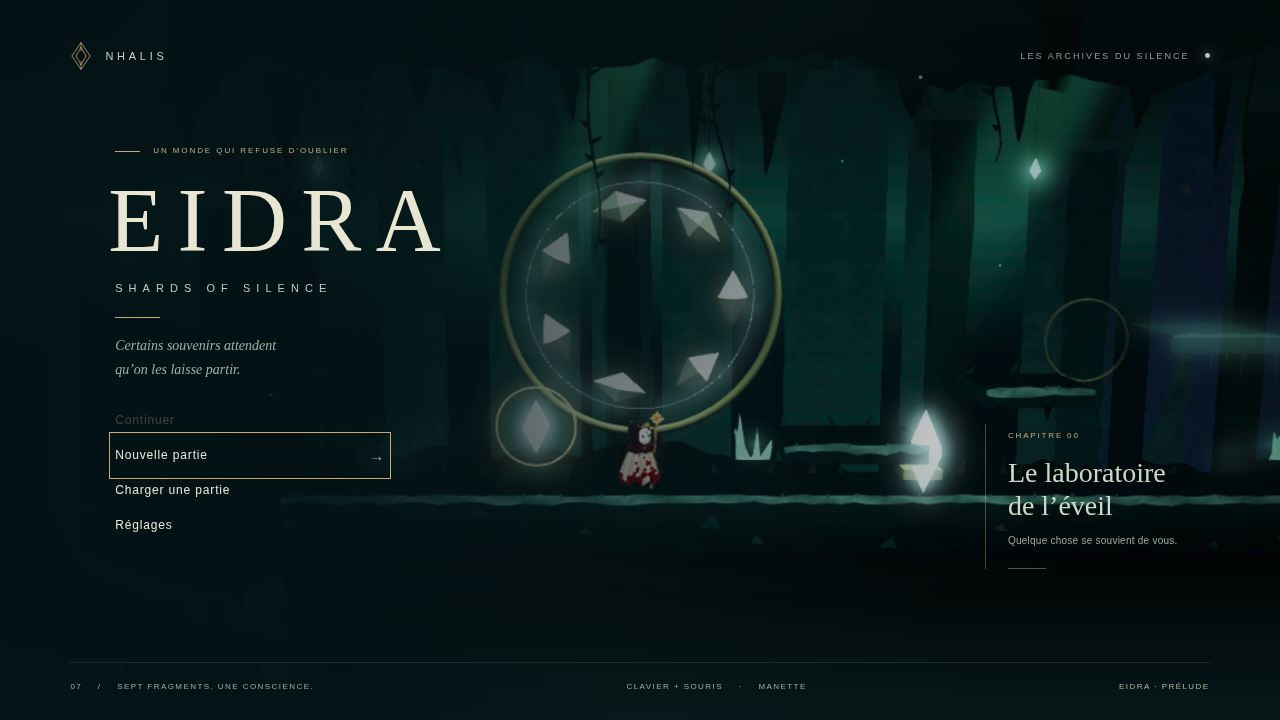
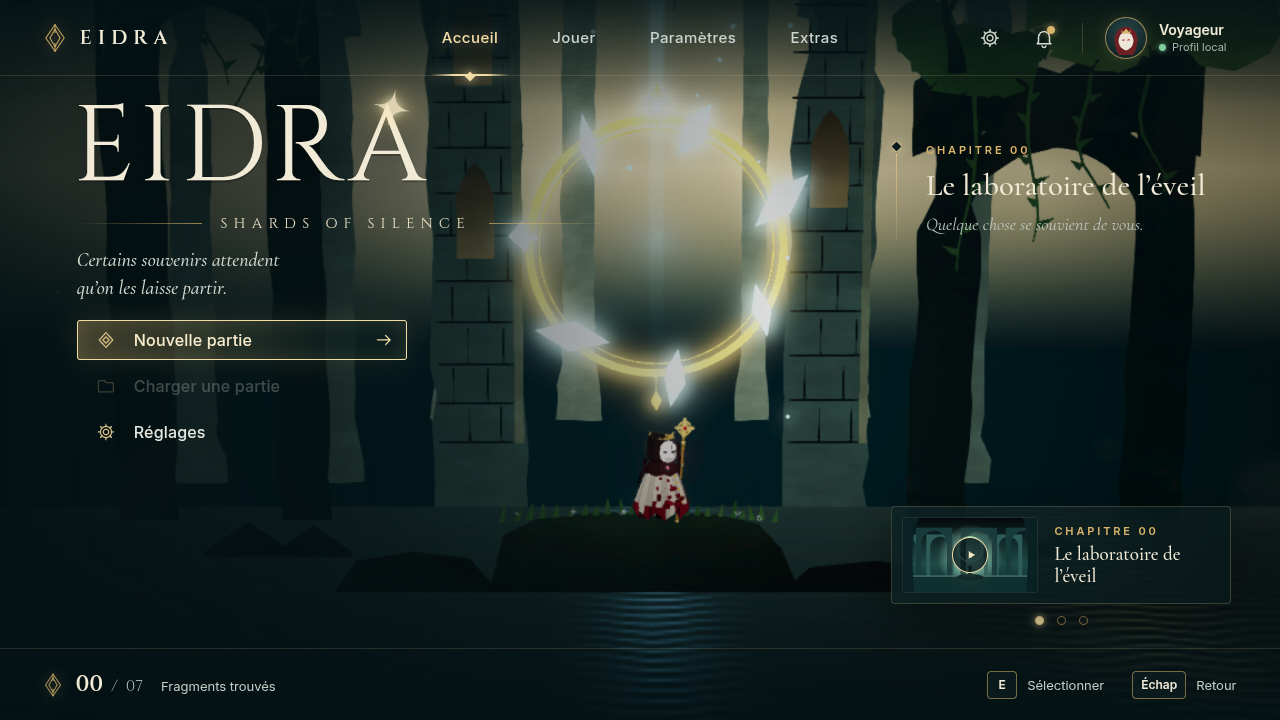
Document the title screen and measure it
Decision D034 (shell, vista, progress, preview, soundtrack, keyboard,
local profile, typefaces), art direction, design, architecture, release
notes, testing, the OFL typefaces in the third-party notes, and the A/B
measurements: the title costs about 29 meshes and fewer draw calls,
play is unchanged and the vista is released when the journey starts.

Claude-Session: https://claude.ai/code/session_01Q4HpwgZSs3YSowU4xBjobR

diff --git a/docs/DECISIONS.md b/docs/DECISIONS.md
@@ -154,3 +154,17 @@ Le prototype n'avait qu'une boucle d'exploration, une boucle de boss et onze bru
 - **Formats** : OGG Vorbis d'abord, **MP3** de secours au lieu du WAV (la musique en WAV aurait pesé plusieurs centaines de Mo). La musique est à 32 kHz stéréo, les bruitages à 44,1 kHz mono. `validate-assets` vérifie les en-têtes et la présence de chaque secours. L'encodeur OGG tire un numéro de flux aléatoire : la régénération donne le même son, pas les mêmes octets.
 - **Exécution** : les bruitages sont de petits tampons chargés au démarrage, huit à la fois ; la musique et les ambiances sont **diffusées en streaming** à la demande et libérées après 20 s de silence (une région lointaine n'occupe pas la mémoire) ; quatre bus (musique, ambiance, effets, interface) suivent les réglages existants, sans nouveau champ de sauvegarde. Les choix sont de la logique pure et testée : `MusicDirector` (thème de la région avec hystérésis de 2 m aux frontières et fondu de 2,5 s, thème du boss en 1,2 s, six secondes de silence après une victoire puis retour lent, fondu à la mort, niveau réduit en pause, creux sous les gros impacts) ; `SoundBank` (variante jamais répétée deux fois de suite, délai minimal entre deux occurrences, hauteur aléatoire) ; `CombatCues` (sons des ennemis, des boss, de leurs capacités et des colonnes de feu, déduits des changements d'état de la simulation). Le décor sonore des secteurs (musique, ambiance, sol sous les pas) et la voix de chaque pattern de boss sont des données (`game-data/audio/`, validées par Zod) ; les tests vérifient que chaque secteur, chaque boss et chaque pattern est servi et que chaque fichier existe.
 - **Le titre a de la musique** : l'audio démarre au premier geste (clic ou touche) dans les menus, comme l'exigent les navigateurs. Les sous-titres de bruitages viennent des données (`caption`).
+
+## D034 — Écran titre : une coque à sections, une illustration en 3D, le voyage résumé
+
+L'écran titre suit la maquette du propriétaire : barre du haut (emblème et « EIDRA », sections Accueil / Jouer / Paramètres / Extras soulignées d'un trait et d'un losange lumineux, réglages, nouveautés, puce de profil), grand titre à l'étoile sur le A, « SHARDS OF SILENCE » entre deux filets, devise en italique, menu à icônes dont l'action principale est encadrée d'or, carte du chapitre en cours à droite, carte d'aperçus en bas à droite, pied de page avec les fragments et les touches.
+
+- **Une coque persistante** (`MenuUI.shell`) : la barre et le pied de page restent, seule la page change. Jouer (emplacements, onglets Charger / Nouvelle partie), Paramètres (le panneau de réglages existant, posé dans la coque) et Extras (Souvenirs, Bande originale, Crédits) sont des pages de la coque, plus des fenêtres modales ; en partie, la pause garde ses panneaux. Les identifiants des boutons (`#continue`, `#new`, `#load`, `#settings`, `#slot-N`, `#back`) ne changent pas : parcours E2E et manettes s'y fient. « Continuer » n'apparaît qu'avec une sauvegarde (sinon « Nouvelle partie » devient l'action principale) et « Charger » est désactivé sans sauvegarde.
+- **Le voyage résumé** : `titleProgress` (`src/ui/TitleProgress.ts`, pure et testée) lit les trois emplacements — la partie que « Continuer » reprend (la plus récente), ses fragments sur les sept de l'histoire, son chapitre, les chapitres atteints par une partie, les souvenirs et les thèmes déjà rencontrés dans n'importe quelle partie. La maquette annonçait « 07 / 12 » : le pied de page affiche les fragments réels, sur sept. Les chapitres sont dérivés des actes de la route (`route.acts`) ; `game-data/ui/title.ts` n'y ajoute que la devise, le secteur dont les couleurs peignent la vignette et le thème de l'aperçu. Les mots, nouveautés et crédits sont des données.
+- **L'illustration** (`TitleStage`) est une scène 3D construite avec les pièces du jeu : Eidra sur un rocher fleuri sous un anneau d'or où tournent des éclats de Lumérite, un rayon qui la traverse, des ruines envahies de feuillage, une porte ouverte sur l'aube, une eau sombre où l'anneau et l'aube se reflètent. Elle se tient à x = −90, hors de la route (aucun secteur ne s'y charge), n'existe que dans les menus et est libérée quand le voyage commence ; la caméra la cadre d'une coupe (`CameraRig.hold`), son ambiance (`titleMood`) remplace celle du secteur. L'eau est une texture émissive sur une couleur émissive noire : Babylon ajoute la texture émissive à la couleur émissive (une couleur blanche rendait l'eau blanche), et une diffuse non éclairée reste noire. Les reflets sont peints dans sa texture. TODO_ART : en attente d'une illustration peinte.
+- **Aperçu d'un chapitre** : le bouton lecture de la carte d'aperçus fait survoler le chapitre par la caméra (2,6 m/s sur au plus 64 m), le monde chargé comme en jeu, la simulation arrêtée, au son du thème du chapitre ; l'interface s'efface derrière des bandes de cinéma, Échap ou Retour ramène au titre et le monde revient à x = 10. Les autres cartes mènent à la bande originale et aux nouveautés ; elles tournent seules toutes les 7 s, sauf mouvements réduits ou survol.
+- **Bande originale** : `MusicDirector.listen` joue un thème déjà entendu à la place de celui du titre, seulement dans les menus (le choix s'oublie dès que le jeu reprend).
+- **Clavier** : sur l'écran titre seulement, les flèches déplacent le focus (navigation spatiale des manettes), la touche d'interaction (E) sélectionne, Échap revient ou ferme une fenêtre ; Tab et Entrée restent valables. En pause, Échap garde son rôle de reprise. Le pied de page montre ces deux touches, ou les boutons de la manette en main. À la manette, les gâchettes hautes changent d'onglet, et de section sur l'accueil.
+- **Profil local** : `profileName` (Zod, « Voyageur » par défaut, une valeur vide ou trop longue revient au défaut) s'ajoute aux réglages ; les sauvegardes existantes restent valides. La puce indique « Profil local » et non « En ligne » : le jeu n'a pas de service en ligne. La fenêtre de profil résume le voyage de toutes les parties.
+- **Nouveautés** : la cloche porte un point tant que la dernière nouveauté n'a pas été lue ; ce simple confort par navigateur vit dans `localStorage` (un stockage bloqué laisse le point et le signale dans la console).
+- **Polices** : Cinzel (titres), Cormorant Garamond (titres de cartes, devises) et Inter (texte), sous SIL Open Font License, sous-ensembles latins woff2 (environ 200 ko) placés à côté de la feuille de style pour que Vite les empaquette avec le reste (`base: './'`). Elles ne servent qu'à l'écran titre ; l'interface de jeu garde Georgia et Arial.

diff --git a/docs/ART_DIRECTION.md b/docs/ART_DIRECTION.md
@@ -35,6 +35,10 @@ Colonnes de feu : un halo de braise au sol en permanence, une flamme basse qui v
 
 Personnages : marionnettes stylisées à contours encrés et ombrage cartoon à trois tons, hors brouillard pour rester lisibles. Eidra : capuche sombre à couronne d'épines dorées, masque blanc fêlé aux yeux pourpres et cœur pourpre, deux mèches noires qui encadrent le masque et de longues mèches qui flottent derrière elle, robe ivoire plissée à ourlet déchiqueté, éclaboussée de taches peintes (plus denses et imbibées vers l'ourlet), col pourpre, boutons dorés, lambeaux de cape pourpre qui ondulent au vent de la course, bottes sombres, bâton doré à tête d'étoile cerclée et gemme rouge. Jusqu'à neuf cartes rouges à cadre doré tournent autour d'elle : une par tranche de résonance ; elles se resserrent en bouclier pendant la parade, se dorent quand une riposte est prête et sont aspirées pendant le Recueillement. Ses coups de bâton laissent des arcs pourpres (or pour la riposte), l'estoc une traînée droite ; son dash laisse des silhouettes et des étincelles pourpres ; le pogo projette une gerbe rouge. Veilleur : très haute capuche, œil unique ambré, hallebarde. Porteur de cendres : trapu, trois yeux, urne sur le dos. Porteur du dernier ordre : livrée bleu nuit bordée d'or, écusson doré à cinq pointes sur la capuche, cape sombre, clous dorés, bannière bleue au losange d'or portée dans le dos — elle quitte son dos quand il la plante dans le sol, où elle ondule et sonne d'un anneau doré à chaque onde ; il avance à pas lourds qui soulèvent la poussière. Souvenir errant : masque flottant aux voiles translucides. Mira : robe et capuche de mémoire translucides, yeux clos, auréole brisée. Gardien Sans Visage : masque vierge traversé d'une faille lumineuse, auréoles brisées, épaulières, lambeaux gris, sept éclats d'ivoire en orbite ; il lévite. Son Commandement ouvre au-dessus d'Eidra un œil ambré à pupille fendue, qui vire au pourpre et grandit quand il punit un mouvement. Rampant de cendre : bête basse à cape déchirée et œil de braise unique. Porte-braise : urne ardente sur le dos. Sentinelle de cendre : armure calcinée, cornes d'os pâle, trois yeux, robe tachée de suie, cape de braise, braises en orbite, lame plus longue que son porteur ; elle avance par bonds, s'accroupit avant de s'élancer en arc très haut et retombe dans la poussière ; ses geysers sont des colonnes de flamme qui jaillissent l'une après l'autre sur des marques au sol. Ilyra : grande silhouette pâle voilée, yeux clos, couronne de fleurs roses, longues mèches rose pâle, pétales en orbite, voiles ; elle glisse au-dessus du sol. Ses reflets sont identiques à elle et prennent sa pose ; ils se détachent dans un anneau de lumière, scintillent brièvement de temps à autre (le seul indice) et se brisent en éclats de mémoire. Les yeux s'élargissent et le contour vire à l'ambre pendant un télégraphe. Les coups se lisent par un croissant (pourpre pour Eidra, or pour la riposte), un flash blanc, un hit-stop et des éclats. Les ennemis vaincus se dissolvent en blanc au lieu de disparaître.
 
+## Écran titre
+
+L'entrée du jeu est une illustration vivante plutôt qu'un fond flou (D034) : Eidra de dos sur un rocher fleuri, sous un grand anneau d'or où tournent des éclats de Lumérite bleu glacier, un rayon de lumière froide qui tombe sur elle, des ruines envahies de feuillage et de lianes, une porte ouverte sur une aube chaude, une eau sombre où l'anneau et l'aube tremblent. Palette : sarcelle profonde et vert mousse en haut et sur les côtés, or chaud pour la lumière et les ornements, ivoire pour le texte. L'interface est un cadre fin (filets dorés à faible opacité, losanges, souligné lumineux) qui laisse le centre libre ; le titre est une capitale lapidaire (Cinzel) espacée, l'étoile posée sur la pointe du A, les titres de cartes et les devises une Garamond italique (Cormorant), le texte une linéale lisible (Inter). Les vignettes d'aperçu sont peintes dans les couleurs du secteur qu'elles montrent. TODO_ART : l'illustration est procédurale ; une peinture de production la remplacera.
+
 ## Animation
 
 Poses exagérées et lisibles, dans l'esprit des action-plateformes dessinés à la main, sans reprendre de personnage existant : anticipation marquée (recul, accroupissement, arme au-dessus de la tête, frisson final), fente, affaissement. Les portes d'arène jaillissent du sol dans un nuage de poussière et s'y enfoncent dans un scintillement doré. La mort brise le masque en éclats ivoire et cristal ; la reconstitution se fait par une lueur blanche qui se résorbe. Les lames de lumière (pouvoir retrouvé, gardien vaincu, ancrage) sont un seul maillage étoilé, doré ou cristal, qui tourne et s'efface en un peu plus d'une seconde.

diff --git a/docs/TESTING.md b/docs/TESTING.md
@@ -101,6 +101,12 @@ Correctifs : appui correct dès le premier pas après une téléportation, prior
 
 23 parcours E2E. Ajout : **« the score follows the journey, and every gesture is heard »** — le premier geste réveille l'audio et le thème du titre joue au menu ; l'interface confirme ; thème et ambiance des voûtes ; pas sur la pierre, saut, atterrissage et coup de bâton entendus ; dans l'arène du Porteur la porte retombe, il rugit et son thème prend le relais ; à sa chute, le son de la victoire et son motif, puis le silence.
 
+## Onzième itération : écran titre
+
+194 tests unitaires / intégration dans 23 fichiers. Nouveau `title.test.ts` : un chapitre par acte de la route, numérotés, bout à bout, avec des couleurs et un thème qui existent, et le chapitre d'une abscisse ; chaque thème a un nom et une origine (titre, région ou combat) ; nouveautés aux identifiants distincts, polices créditées ; vignettes aux couleurs de leur secteur avec des identifiants de dégradé propres ; **progression du titre** : avant tout voyage (premier chapitre, thème du titre seul, aucun fragment, sur sept), puis avec deux parties (la plus récente est reprise, ses seuls fragments de l'histoire comptés, chapitre de sa position, chapitres atteints, souvenirs et thèmes réunis de toutes les parties dans l'ordre de la partition), chapitre atteint par un secteur découvert ; nom de profil par défaut, rogné, refusé s'il est vide ou trop long, réglages et sauvegardes antérieurs valides ; thème choisi joué dans les menus puis oublié dès que le jeu reprend.
+
+24 parcours E2E. Ajout : **« the title screen: sections, the journey so far, its score, a preview and a profile »** — sans sauvegarde, pas de « Continuer », « Charger » désactivé, fragments 00/07, chapitre 00 ; au clavier, flèches (la touche désactivée est sautée), E ouvre Jouer avec le focus sur le premier emplacement, Échap revient ; une partie menée jusqu'à l'Acte II (transmission passée), sauvegardée, puis retour au titre : « Continuer » a le focus et indique l'ancrage, la carte du chapitre montre les Failles de cendre ; Extras : sept souvenirs, quatre thèmes entendus, celui de Mira joué puis arrêté (mixage vérifié) ; aperçu du chapitre 01 : interface effacée, secteur de la Porte de Nhalis chargé, thème des cendres, puis retour au titre, monde rechargé à l'éveil et thème du titre ; nouveautés lues (le point disparaît et ne revient pas après rechargement) ; nom de profil enregistré dans la base du navigateur et conservé après rechargement. Les parcours manette existants passent sans changement : le premier appui lance « Nouvelle partie », le second l'emplacement.
+
 ## Qualité restant à qualifier
 
 WebGPU réel, Firefox / Safari, manettes physiques (les profils Linux evdev et les vibrations n'ont été vérifiés qu'avec des manettes scriptées), accessibilité avec lecteurs d’écran, quotas / stockage privé, CSP sur Cloudflare et campagne complète. Le protocole de performance logiciel est décrit dans PERFORMANCE ; il ne certifie pas 60 FPS. Aucun test défaillant n’est désactivé pour rendre la CI verte.

diff --git a/docs/ARCHITECTURE.md b/docs/ARCHITECTURE.md
@@ -34,6 +34,8 @@ GameError, ConfigurationError, AssetLoadError et SaveError. Échec critique : é
 
 Décor (D023, D024) : `Mood` décode les ambiances de `game-data/zones/moods.ts` et les fond entre secteurs (`tintAt`). `PaintedGeometry` construit des bandes, rubans (bords éventuellement adoucis par l'alpha des sommets), triangles, sols, murs et sprites à couleurs de sommets et UV monde. `Scenery.paintScenery` produit de façon déterministe les géométries d'un secteur (proche, lointain, avant-plan, halos, rayons, souvenirs) ; `ChunkView` les transforme en six maillages, garde les boîtes des données comme colliders invisibles et bascule les couches selon le preset. `Atmosphere` gère les bandes de brume qui suivent la caméra et font défiler leur texture avec le monde.
 
+L'écran titre (D034) est une coque de `MenuUI` (sections, profil, nouveautés, pied de page) qui lit `titleProgress` (`ui/TitleProgress`, fonction pure des emplacements de sauvegarde) et les données de `game-data/ui/title.ts`. `Presentation` construit `TitleStage` (illustration 3D hors de la route) quand les menus s'affichent et la libère au début du voyage ; un aperçu de chapitre passe à `Presentation.render` un cadrage que `Game` fait glisser le long de la route en y chargeant le monde, simulation arrêtée. `MusicDirector.listen` y choisit le thème.
+
 `TutorialDirector` (quests) choisit l'invite contextuelle à partir des données de `game-data/quests/tutorial.ts` ; `GameSession` lui signale les gestes accomplis et expose `hint`, que `MenuUI` affiche avec les glyphes du dernier périphérique.
 
 `ArenaDirector` (bosses) scelle et libère les arènes décrites dans `game-data/zones/laboratory.ts` ; `GameSession.closedGates()` combine ses portes et le sceau du contrepoids, `World` les applique (colliders statiques créés près du joueur, animation de montée purement visuelle, changements signalés à `Presentation` pour la poussière) et `EnemyManager` en borne les corps avec les intervalles de `Terrain` (D020, D021). `GameSession.bossBar` expose au HUD la vie du gardien combattu. Chaque boss du `bossRoster` (`game-data/bosses`, D027) est une `BossEncounter` de `EnemyManager` : son `BossDirector` (logique pure) choisit patterns, phases et enchaînements, le gestionnaire traduit les déclenchements en coups. Les colonnes de feu sont des fonctions pures de `GameSession.hazardTime` (`combat/Hazards`, D029), lues à l'identique par les dégâts et par `Presentation`. `Poses` traduit l'état des FSM, du directeur de boss et du combat en poses clés visuelles (D022), dont les angles du bâton d'Eidra ; `CardSystem` (`combat/Cards`) simule les cartes lancées, `CardHalo` les dessine avec l'orbite de résonance (D031) ; `LightRays` dessine les lames de lumière.

diff --git a/docs/PERFORMANCE.md b/docs/PERFORMANCE.md
@@ -130,6 +130,12 @@ Comparaison A / B (build `main` contre ce build, une partie neuve par scène, ME
 
 Protocole standard : 64 / 26 draw calls et 60 474 / 32 151 triangles, identiques (l'audio ne dessine rien) ; CPU 4,4 / 3,1 ms et rendu logiciel 138,5 / 52,6 ms en MEDIUM / LOW ; allers-retours de streaming : 320 / 316 meshes, 7 / 6 ressources physiques, 2 / 1 chunks, inchangés. Bundle principal : 1,97 Mo minifié / 492 ko gzip (+4 ko). Mémoire : la musique et les ambiances sont lues en flux (lecteur média), jamais décodées en entier, et une région quittée depuis 20 s les libère ; les bruitages et les motifs sont des tampons décodés d'environ 32 Mo à 48 kHz (166 s de son, queues de réverbération comprises). Téléchargement : environ 1,2 Mo de bruitages et de motifs au démarrage, puis environ 0,6 Mo par thème et 0,4 Mo par ambiance la première fois qu'ils sont entendus (un seul format est téléchargé, OGG ou MP3).
 
+### Onzième itération : écran titre
+
+Comparaison A / B (build `main` contre ce build, même protocole que les itérations précédentes, deux passages). **Écran titre** : 151,2 / 3,3 ms → 158,9 / 3,5 ms (frame / CPU), 66 → 60 draw calls, 309 → 338 meshes : l'illustration (`TitleStage`, une trentaine de maillages dont sept éclats instanciés d'une seule source) remplace la vue du secteur d'éveil, et le décor des couches peintes est fusionné par matériau comme celui des secteurs. **Aperçu de chapitre** : 158,3 / 4,1 ms, 56 draw calls, le secteur survolé chargé comme en jeu. **En jeu** (une partie neuve par scène) : chambre d'éveil 163,2 / 5,1 → 162,6 / 4,9 ms ; arène du Porteur 164,6 / 6,6 → 165,4 / 6,2 ms ; Champs de braise 165,7 / 7,3 → 168,6 / 7,7 ms ; Jardin du déni 153,0 / 5,9 → 151,3 / 5,7 ms, dans le bruit : l'illustration est libérée au début du voyage (316 meshes en jeu après le titre, comme avant).
+
+Protocole standard : 64 / 26 draw calls et 60 474 / 32 151 triangles, identiques ; CPU 4,8 / 3,2 ms et rendu logiciel 161,0 / 72,3 ms en MEDIUM / LOW (machine plus lente que lors de la mesure précédente : les écarts de ce passage se lisent dans l'A / B ci-dessus, fait dans la même session) ; allers-retours de streaming : 320 / 316 meshes, 7 / 6 ressources physiques, 2 / 1 chunks, inchangés. Polices : environ 200 ko de woff2 empaquetés à part, chargés à l'affichage du titre ; bundle principal : 2,00 Mo minifié / 502 ko gzip (+29 ko minifié / +10 ko gzip : coque du titre, illustration, icônes et données).
+
 Mesures brutes : [performance.json](evidence/performance.json) (dernière itération).
 
 ## Optimisation et stabilité

diff --git a/docs/RELEASE_NOTES.md b/docs/RELEASE_NOTES.md
@@ -113,3 +113,12 @@ Lire README, ROADMAP et AGENT_RULES, lancer `npm ci`, puis `npm run check` et le
 - **Ambiances** : gouttes et bourdonnement des voûtes, vent et braises des failles, brise et carillons du jardin.
 - **59 bruitages en couches, avec variantes** et hauteur légèrement aléatoire : trois coups de bâton, coups qui touchent (claquement, corps, tintement), armure, mort d'ennemi, blessure, parade, dash, saut, double saut, atterrissage léger ou lourd, pas sur la pierre, la cendre ou la mousse, Recueillement qui monte puis se résout, cartes, pogo, éclats, Rémanence, Écho, mort et reconstitution ; ennemis qui repèrent, anticipent, frappent et tirent ; rugissements, télégraphes et coups des boss, étendard, Commandement, geysers, bond, reflets brisés ; colonnes de feu, portes de pierre, ancrage, dialogues et menus.
 - Sous-titres de bruitages pour les sons qui comptent ; vibrations des manettes alignées sur les nouveaux sons. Formats OGG et MP3 ; la musique est diffusée en streaming et libérée loin de sa région. Réglages et sauvegardes inchangés.
+
+### Onzième itération : l'écran titre
+
+- **Un nouvel écran titre**, d'après la maquette (D034) : barre de sections (Accueil, Jouer, Paramètres, Extras) avec réglages, nouveautés et profil ; grand titre à l'étoile sur le A, « SHARDS OF SILENCE », devise ; menu à icônes avec « Continuer » encadré d'or ; chapitre en cours ; carte d'aperçus ; fragments retrouvés et touches en pied de page.
+- **Une illustration vivante** derrière : Eidra sur son rocher sous un anneau d'or et d'éclats de Lumérite qui tournent, un rayon de lumière, des ruines envahies de feuillage, l'aube par une porte, l'eau qui reflète l'anneau.
+- **Le voyage résumé** : « Continuer » indique l'ancrage, le temps de jeu et depuis quand ; le chapitre de la partie en cours s'affiche à droite ; les fragments de cette partie en bas à gauche.
+- **Aperçu des chapitres** : la caméra survole un chapitre déjà atteint, sur son thème. **Bande originale** : réécouter les thèmes déjà entendus. **Souvenirs** : les fragments retrouvés, avec leur première phrase. **Crédits** et **Nouveautés**.
+- **Profil local** : choisissez le nom affiché ; il est gardé avec les réglages.
+- **Clavier** : flèches, E et Échap sur l'écran titre, comme l'annonce le pied de page ; la manette change de section avec les gâchettes hautes. Polices Cinzel, Cormorant Garamond et Inter (licence libre OFL). Sauvegardes compatibles.

diff --git a/docs/GAME_DESIGN.md b/docs/GAME_DESIGN.md
@@ -27,7 +27,7 @@ Ressenti des coups (référence : action-plateformes modernes) : hit-stop court 
 
 ## Apprentissage et interface
 
-Un tutoriel contextuel remplace le long texte de départ : une invite (glyphe de touche ou de bouton + verbe) apparaît dans la zone où le geste devient utile — se déplacer, sauter, frapper, l'élan après son acquisition, parer près du Porteur de cendres, la Rémanence au pont, la plongée près du Veilleur du pont, l'Écho au sceau — et disparaît dès que le joueur l'a accompli, où qu'il soit. Le Recueillement n'est suggéré que blessé et avec un segment disponible. Les menus privilégient l'information utile : dernier ancrage sur l'écran titre, cartes de sauvegarde (lieu, durée, vitalité, éclats, souvenirs, pouvoirs), objectif et rappel des commandes en pause, carte en itinéraire avec marqueurs, conseils à la mort et au chargement.
+Un tutoriel contextuel remplace le long texte de départ : une invite (glyphe de touche ou de bouton + verbe) apparaît dans la zone où le geste devient utile — se déplacer, sauter, frapper, l'élan après son acquisition, parer près du Porteur de cendres, la Rémanence au pont, la plongée près du Veilleur du pont, l'Écho au sceau — et disparaît dès que le joueur l'a accompli, où qu'il soit. Le Recueillement n'est suggéré que blessé et avec un segment disponible. Les menus privilégient l'information utile : sur l'écran titre (D034), dernier ancrage, temps de jeu et chapitre de la partie à reprendre, fragments retrouvés, aperçu des chapitres atteints, souvenirs et thèmes déjà rencontrés, nouveautés ; cartes de sauvegarde (lieu, durée, vitalité, éclats, souvenirs, pouvoirs), objectif et rappel des commandes en pause, carte en itinéraire avec marqueurs, conseils à la mort et au chargement.
 
 ## Manettes
 

diff --git a/docs/THIRD_PARTY.md b/docs/THIRD_PARTY.md
@@ -8,6 +8,6 @@ Dépendances : Babylon.js core / GUI / loaders (Apache-2.0), Havok Web package (
 
 Les fichiers glslang et twgsl copiés dans `public/decoders` proviennent de la distribution Babylon.js 9.27.0. Conserver les mentions incorporées dans ces fichiers et le fichier de licence Babylon distribué à côté. Le décodeur meshoptimizer et sa licence MIT sont également inclus. Ne pas supprimer les mentions tierces lors du packaging.
 
-La police système Georgia / Arial n'est ni copiée ni redistribuée. Les graphismes SVG du titre et de l'icône sont originaux.
+La police système Georgia / Arial n'est ni copiée ni redistribuée. L'écran titre embarque trois familles sous SIL Open Font License 1.1, dans `src/ui/fonts/` avec leur licence : **Cinzel** (© 2020 The Cinzel Project Authors), **Cormorant Garamond** (© 2015 The Cormorant Project Authors) et **Inter** (© 2016 The Inter Project Authors), en sous-ensembles latins woff2 issus des paquets Fontsource. Elles sont redistribuées sans modification et non vendues seules ; garder les fichiers `LICENSE-*.txt` à côté. Les graphismes SVG du titre, des icônes, des vignettes et de l'icône du jeu sont originaux.
 
 L'attribution des droits et la licence de publication du code de jeu restent à décider par le propriétaire. Aucun transfert de droits sur les dépendances tierces n'est impliqué.

diff --git a/README.md b/README.md
@@ -11,7 +11,7 @@ npm ci
 npm run dev
 ```
 
-Ouvrir **http://127.0.0.1:5173**. Le thème du titre démarre au premier clic ou à la première touche (règle des navigateurs). Cliquez sur **Nouvelle partie**, puis un emplacement libre. Les sauvegardes restent dans ce navigateur. Utilisez un ancrage avec E avant de quitter.
+Ouvrir **http://127.0.0.1:5173**. Le thème du titre démarre au premier clic ou à la première touche (règle des navigateurs). L'écran titre réunit l'accueil, les emplacements (**Jouer**), les **Paramètres** et les **Extras** (souvenirs retrouvés, bande originale à réécouter, crédits) ; la carte en bas à droite fait survoler un chapitre déjà atteint. Au clavier : flèches, E pour sélectionner, Échap pour revenir. Cliquez sur **Nouvelle partie**, puis un emplacement libre. Les sauvegardes restent dans ce navigateur. Utilisez un ancrage avec E avant de quitter.
 
 Pour jouer au build de production :
 
